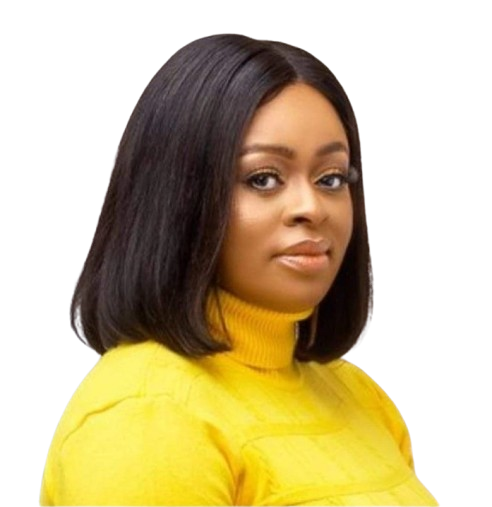
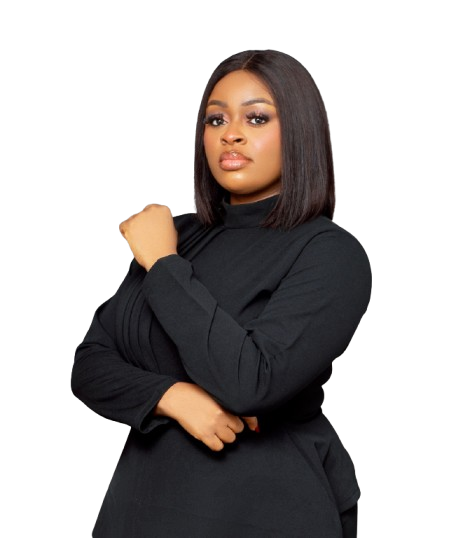
fix: update coach image in mentorship section for better representation

diff --git a/mentorship.html b/mentorship.html
@@ -31,7 +31,7 @@
                 </div>
             </div>
             <div class="image-container">
-                <img src="images/coach.png" alt="Coach Image" class="hero-image">
+                <img src="images/portrait-2.png" alt="Coach Image" class="hero-image">
             </div>
         </div>
     </section>
